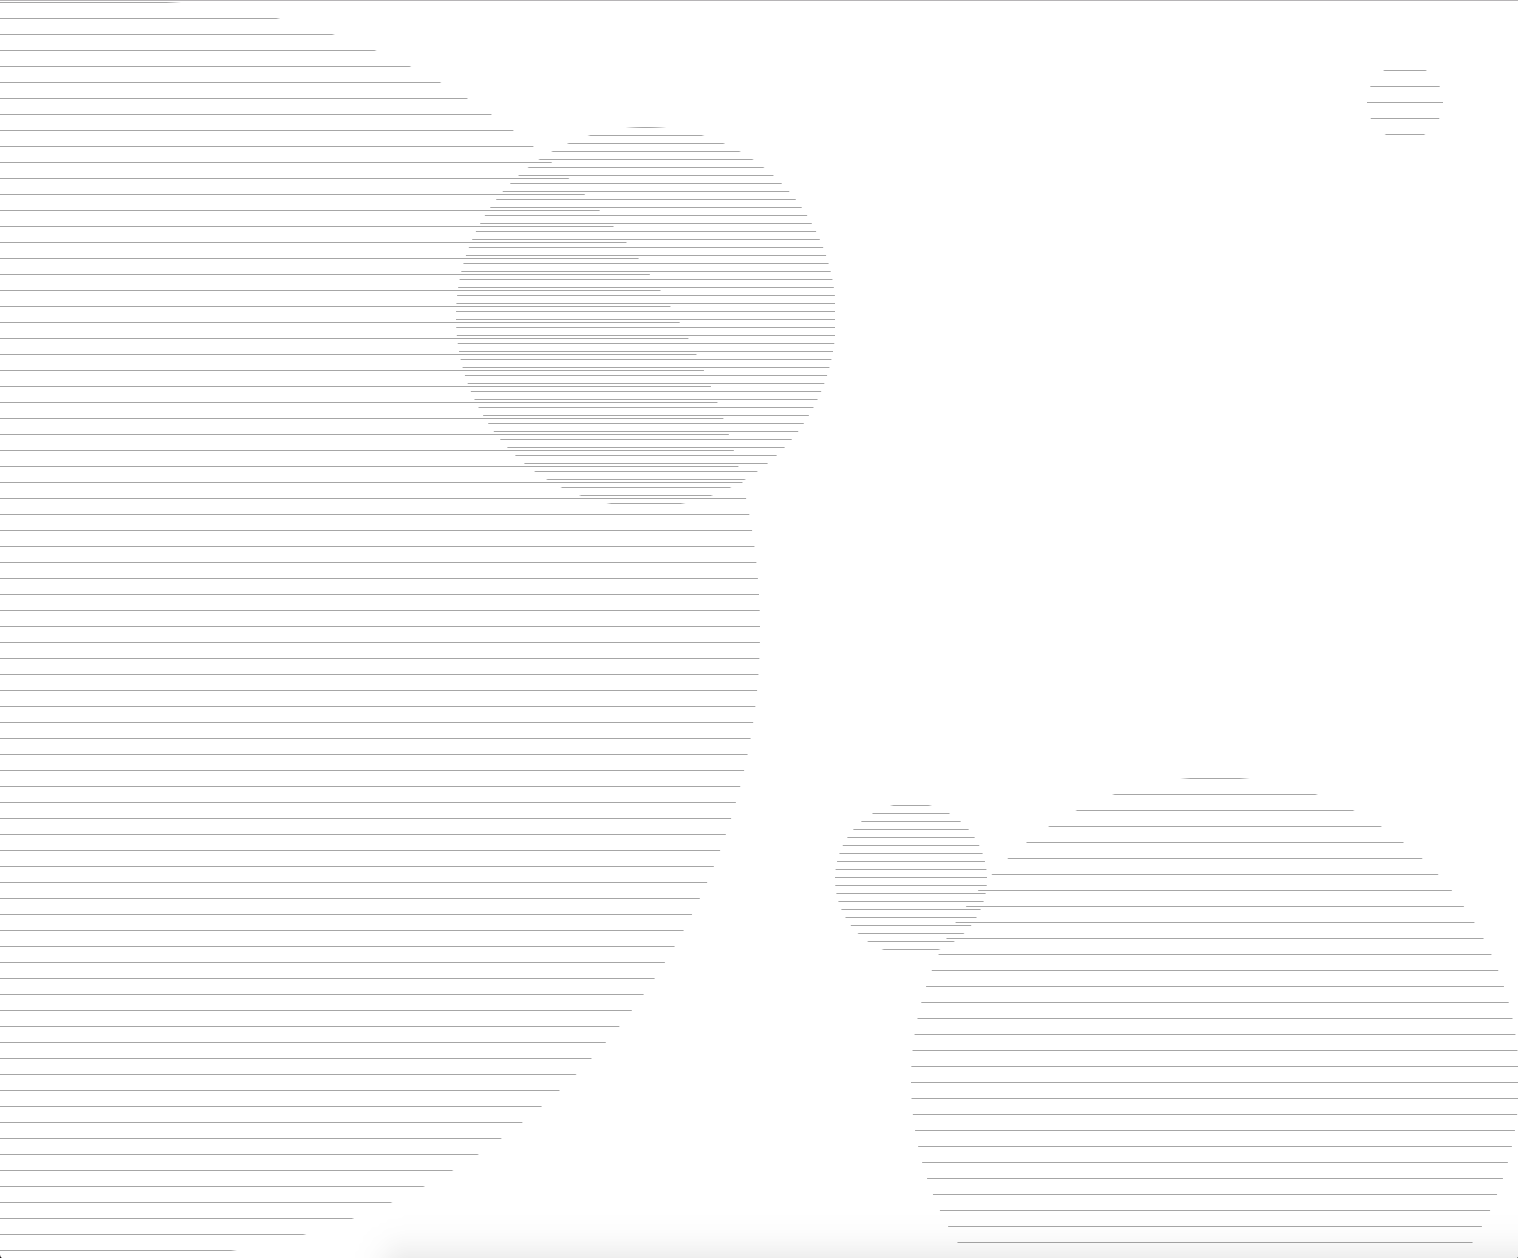
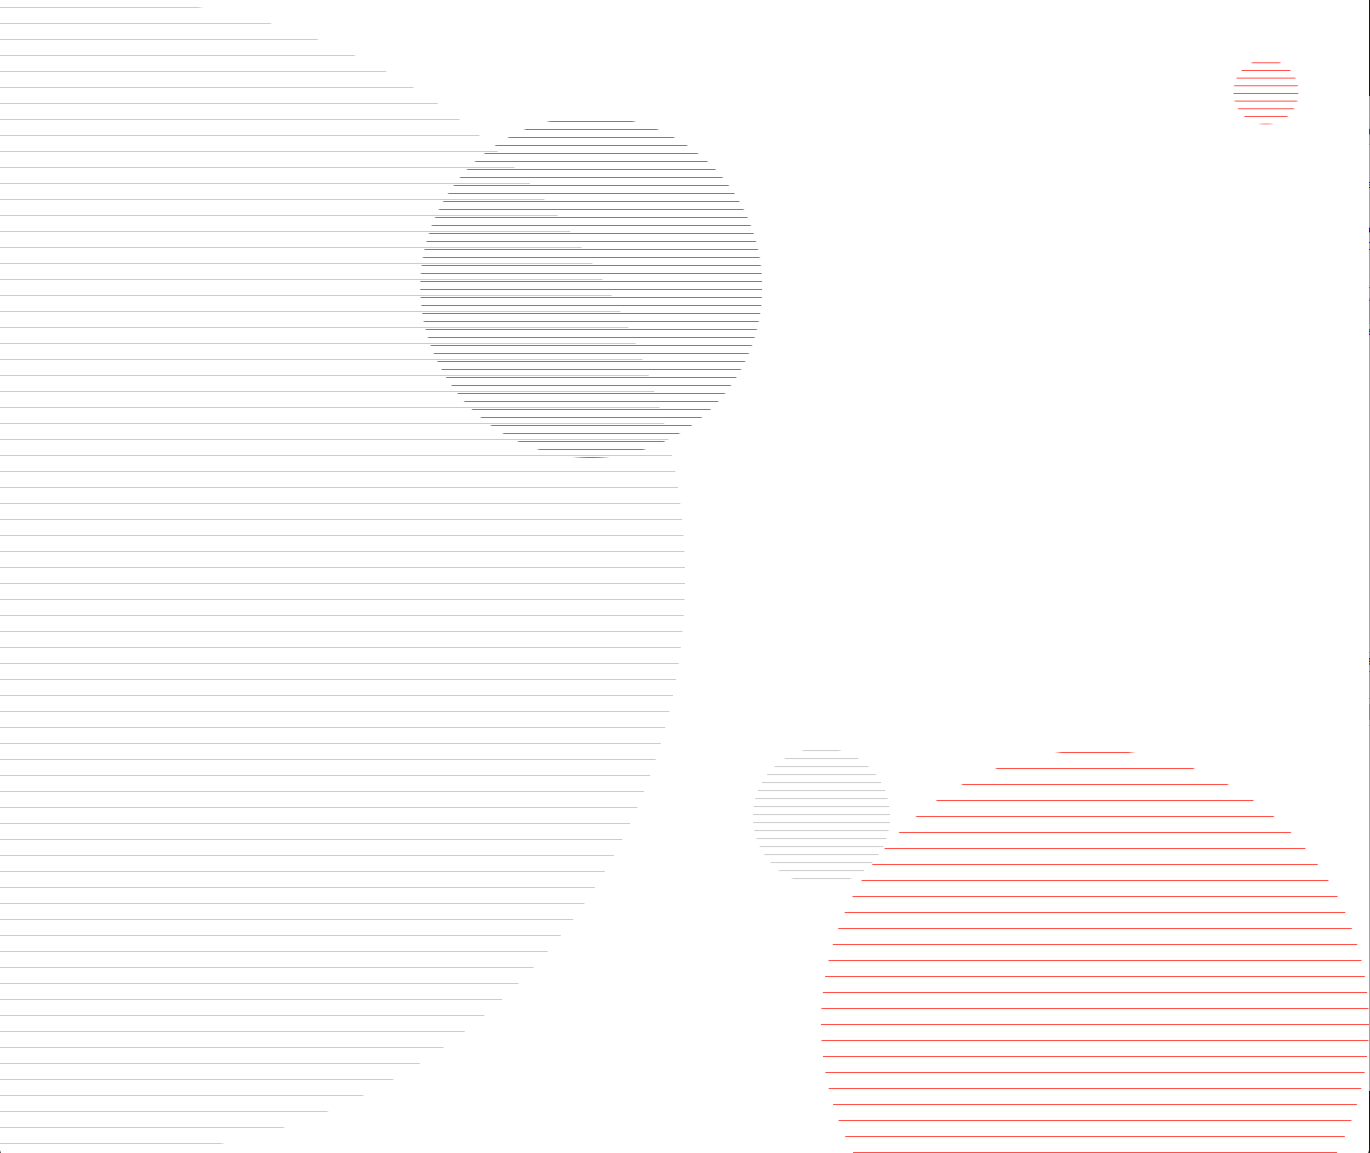
Add in red circles.

diff --git a/stylesheets/style.css b/stylesheets/style.css
@@ -1034,7 +1034,7 @@ body, html { margin: 0; padding: 0; }
 html { width: 100%; -webkit-text-size-adjust: 100%; font-size: 16px; margin-top: 0; }
 @media screen and (min-width: 1800px) { html { font-size: 18px; } }
 
-body { width: 100%; height: 100%; -webkit-tap-highlight-color: black; font-family: "jb-grotesk", "Helvetica Neue", Arial, Helvetica, sans-serif; font-size: 0.8125rem; font-weight: 400; background-color: #fff; color: #000; transition: background-color 650ms ease-out; line-height: 1rem; color: #707070; }
+body { width: 100%; height: 100%; -webkit-tap-highlight-color: black; font-family: "jb-grotesk", "Helvetica Neue", Arial, Helvetica, sans-serif; font-size: 0.875rem; font-weight: 400; background-color: #fff; color: #000; transition: background-color 650ms ease-out; line-height: 1rem; color: #707070; }
 
 ::selection { background: #bbbbbb; color: #232323; }
 
@@ -1367,14 +1367,16 @@ hr { height: 1px; border: 0; border-bottom: 1px solid #eee; display: block; }
 @media screen and (min-width: 1024px) { #page-front { padding: 4rem 0; } }
 #page-front section { width: 100%; }
 #page-front .top { margin-bottom: 2rem; }
-#page-front .image-row { flex-grow: 1; position: relative; overflow: hidden; width: 100%; }
+#page-front .title { color: #000; }
 #page-front .mobile-bg { background-image: url("/images/mobile-bg.png"); background-position: center center; background-size: cover; position: fixed; z-index: -1; top: 0; left: 0; width: 100%; height: 100%; }
 @media screen and (min-width: 768px) { #page-front .mobile-bg { display: none; } }
-#page-front .images { position: fixed; z-index: -1; top: 0; left: 0; width: 100%; height: 100%; opacity: 0.35; display: none; }
+#page-front .images { position: fixed; z-index: -1; top: 0; left: 0; width: 100%; height: 100%; opacity: 1; display: none; }
 @media screen and (min-width: 768px) { #page-front .images { display: block; } }
 #page-front .hover-1-wrap { position: absolute; top: 0; left: 0; width: 50%; height: 100%; border-top-right-radius: 100vh; border-bottom-right-radius: 100vh; overflow: hidden; transform-origin: bottom left; }
 #page-front .image-hover-1, #page-front .image-hover-2, #page-front .image-hover-3, #page-front .image-hover-4, #page-front .image-hover-5 { background-image: url("/images/border-tall.png"); background-repeat: repeat; position: absolute; width: 100%; height: 1000%; top: -250; left: 0; }
-#page-front .image-hover-2, #page-front .image-hover-3 { background-image: url("/images/border-shorter.png"); }
+#page-front .image-hover-2, #page-front .image-hover-5 { background-image: url("/images/border-shorter-red.png"); }
+#page-front .image-hover-3 { background-image: url("/images/border-shorter.png"); }
+#page-front .image-hover-4 { background-image: url("/images/border-tall-red.png"); }
 #page-front .hover-2-wrap { position: absolute; width: 25%; top: 10%; left: 30%; height: 0; padding-bottom: 25%; border-radius: 100%; overflow: hidden; animation: shiftX 8s infinite ease-in-out alternate; }
 #page-front .hover-3-wrap { position: absolute; right: 35%; bottom: 20vw; height: 0; width: 10%; padding-bottom: 10%; border-radius: 100%; overflow: hidden; animation: shiftY 4s infinite ease-in-out alternate; }
 #page-front .hover-4-wrap { position: absolute; bottom: -10%; right: 0; width: 40%; padding-bottom: 40%; border-radius: 40vw; overflow: hidden; animation: shiftY 20s infinite ease-in-out alternate; }
@@ -1386,7 +1388,6 @@ hr { height: 1px; border: 0; border-bottom: 1px solid #eee; display: block; }
 #page-front .work-link g { stroke: #555555; transition: all 500ms cubic-bezier(0.165, 0.84, 0.44, 1); }
 #page-front .work-link:hover g { stroke: #000; transition: all 400ms cubic-bezier(0.165, 0.84, 0.44, 1); }
 #page-front .contact-item { position: relative; }
-@media screen and (max-width: 767px) { #page-front .contact-item:first-of-type { margin-top: 2rem; border-top: 1px solid #eee; padding-top: 2rem; } }
 #page-front .contact-item:not(:first-of-type) { margin-top: 1rem; }
 @media screen and (min-width: 768px) { #page-front .contact-item { opacity: 0; } }
 @media screen and (min-width: 768px) { #page-front.first-load .image-hover { display: none; } }

diff --git a/stylesheets/templates/_page-front.scss b/stylesheets/templates/_page-front.scss
@@ -18,11 +18,8 @@
     margin-bottom: $line-x2;
   }
 
-  .image-row {
-    flex-grow: 1;
-    position: relative;
-    overflow: hidden;
-    width: 100%;
+  .title {
+    color: $black;
   }
 
   .mobile-bg {
@@ -47,7 +44,7 @@
     left: 0;
     width: 100%;
     height: 100%;
-    opacity: 0.35;
+    opacity: 1;
     display: none;
     @include media($medium-up) {
       display: block;
@@ -78,12 +75,19 @@
     height: 1000%;
     top: -250;
     left: 0;
-    // opacity: 0.5;
   }
 
   .image-hover-2,
+  .image-hover-5 {
+    background-image: url('/images/border-shorter-red.png');
+  }
+
   .image-hover-3 {
     background-image: url('/images/border-shorter.png');
+  }
+
+  .image-hover-4 {
+    background-image: url('/images/border-tall-red.png');
   }
 
   .hover-2-wrap {
@@ -164,13 +168,6 @@
 
   .contact-item {
     position: relative;
-    &:first-of-type {
-      @include media($small) {
-        margin-top: $line-x2;
-        border-top: $standard-border;
-        padding-top: $line-x2;
-      }
-    }
     &:not(:first-of-type) {
       margin-top: $line-x1;
     }

diff --git a/scripts/main.js b/scripts/main.js
@@ -7276,7 +7276,7 @@ var
       });
 
       $imageHovers.delay(1250).each(function(index) {
-        $(this).velocity({scaleX: [1, 0.25 * index], scaleY: [1, 0.125*index], opacity:[1,0]}, {duration: 1250, easing: 'easeInOutQuint', delay: 100 * index, display: 'block', queue: false});
+        $(this).velocity({opacity:[1,0]}, {duration: 1250, easing: 'easeInOutQuint', delay: 100 * index, display: 'block', queue: false});
       });
     }
   });

diff --git a/scripts/scripts.js b/scripts/scripts.js
@@ -15,7 +15,7 @@ var
       });
 
       $imageHovers.delay(1250).each(function(index) {
-        $(this).velocity({scaleX: [1, 0.25 * index], scaleY: [1, 0.125*index], opacity:[1,0]}, {duration: 1250, easing: 'easeInOutQuint', delay: 100 * index, display: 'block', queue: false});
+        $(this).velocity({opacity:[1,0]}, {duration: 1250, easing: 'easeInOutQuint', delay: 100 * index, display: 'block', queue: false});
       });
     }
   });

diff --git a/stylesheets/global/_variables.scss b/stylesheets/global/_variables.scss
@@ -10,7 +10,7 @@ $type-book: 400;
 $type-light: 300;
 
 // Font Sizes
-$type-paragraph: rem(13);
+$type-paragraph: rem(14);
 // $type-mid-sm: rem(19);
 // $type-mid: rem(24);
 // $type-large-sm: rem(30);
